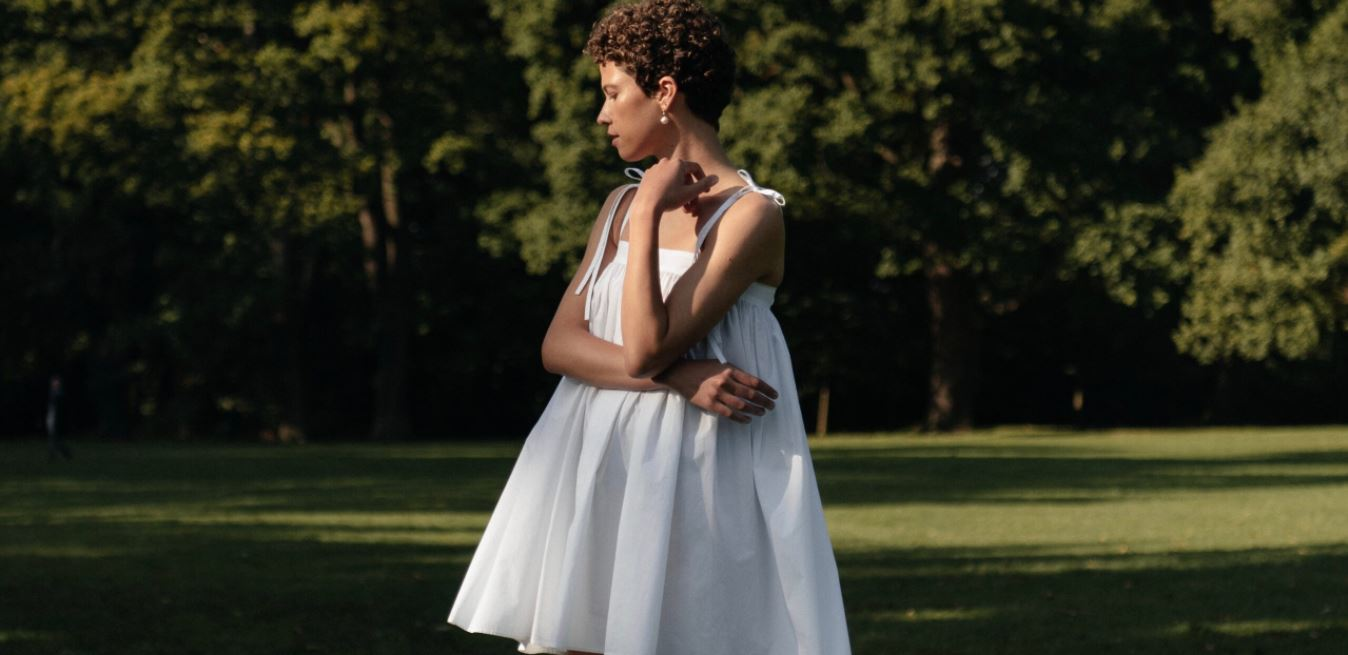
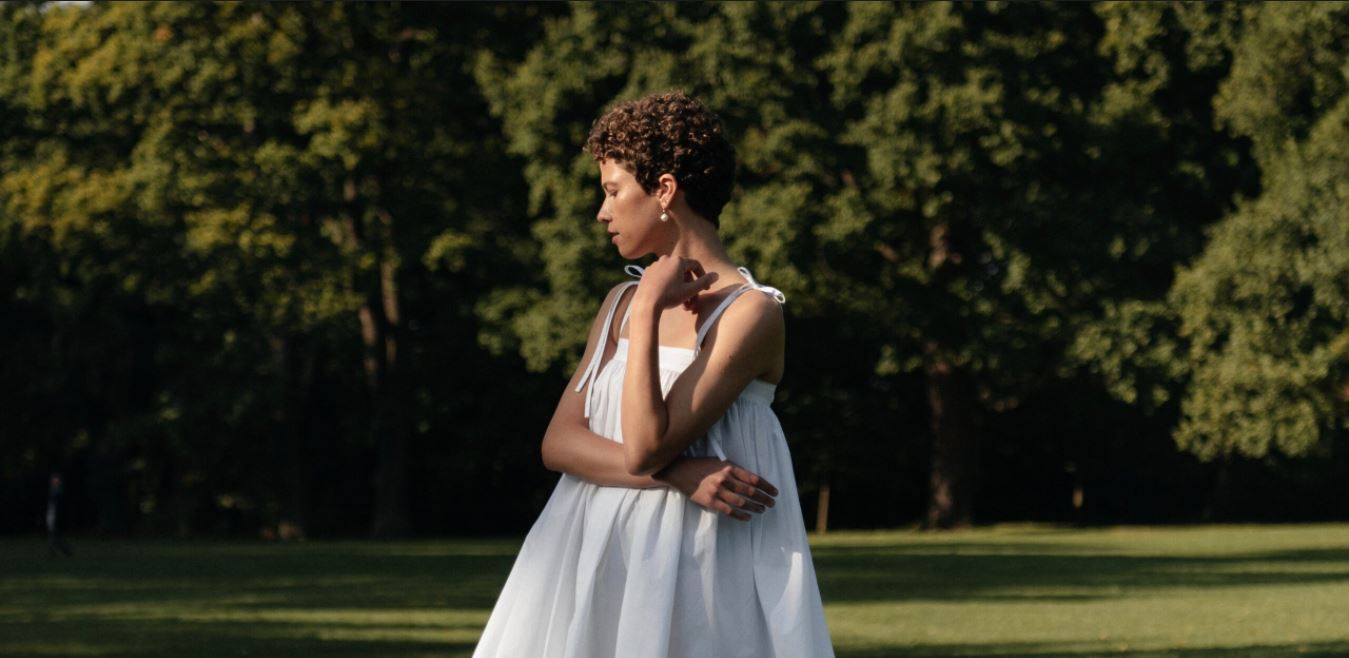
Forside rettelser

diff --git a/Home.html b/Home.html
@@ -74,6 +74,15 @@
     </div>
 
     <!----------------------------------------------------------------------------------------------------------------->
+    <!-- TEKST -->
+    <!----------------------------------------------------------------------------------------------------------------->
+
+    <div class="intro_tekst">
+        <h1>Lorem ipsum</h1>
+        <p>Lorem ipsum dolor sit amet, consectetur adipisicing elit. Distinctio optio laborum soluta doloribus voluptas, vel reiciendis cumque in consequatur deleniti sint quasi amet quam perferendis consectetur pariatur ipsa, voluptates. Omnis!</p>
+    </div>
+
+    <!----------------------------------------------------------------------------------------------------------------->
     <!-- 3 BOKSE -->
     <!----------------------------------------------------------------------------------------------------------------->
 
@@ -111,27 +120,21 @@
     <footer>
         <div class="row">
             <div class="column hide-mobile">
-                <h3>Vi tilbyder også</h3>
+                <h3>WRITE US</h3>
                 <ul class="quicklinks">
-                    <li><a href="tilbud.html?id=170">Teambuilding</a></li>
-                    <li><a href="tilbud.html?id=171">Lokaleudlejning</a></li>
-                    <li><a href="tilbud.html?id=172">Gymnasier</a></li>
+                    <li class="li3">info@ihs.dk</li>
                 </ul>
             </div>
             <div class="column">
-                <h3>Om IHS</h3>
+                <h3>FIND US</h3>
                 <ul class="quicklinks">
-                    <li><a href="om.html?id=176">Værdigrundlag</a></li>
-                    <li><a href="personale.html">Personale</a></li>
-                    <li><a href="bestyrelse.html">Bestyrelse</a></li>
+                    <li class="li2">Friheds Alle 42, 6400</li>
                 </ul>
             </div>
             <div class="column">
-                <h3>Kontakt os</h3>
+                <h3>CONTACT US</h3>
                 <ul>
                     <li class="li1">+45 74 42 18 48</li>
-                    <li class="li2">Friheds Alle 42, 6400</li>
-                    <li class="li3">info@ihs.dk</li>
                 </ul>
             </div>
         </div>
@@ -141,12 +144,14 @@
     <!-- BOTTOM BAR -->
     <!----------------------------------------------------------------------------------------------------------------->
 
+<!--
     <div class="bottom_bar">
         <div class="row">
             <div class="column">CVR: 35902619</div>
             <div class="column align-right">2020 © Copyright</div>
         </div>
     </div>
+-->
 
     <!----------------------------------------------------------------------------------------------------------------->
     <!-- JAVASCRIPT -->

diff --git a/Stye.css b/Stye.css
@@ -18,8 +18,8 @@ header {
     width: 100%;
     padding: 15px 0;
     z-index: 100;
-    background-color: rgba(255, 255, 255, 0.0);
-    height: 90px;
+    background-color: rgba(000, 000, 000, 0.80);
+    height: 70px;
     padding: 10px 50px;
     padding-left: 10px;
     box-shadow: 0px 10px 90px -23px rgba(0, 0, 0, 0.0);
@@ -30,7 +30,7 @@ header {
 /*============================================================================================*/
 
 .splash_1 {
-    background-image: url(../img/Udklip.JPG);
+    background-image: url(../img/Udklip1.JPG);
     background-size: cover;
     background-position: center;
     width: 100%;
@@ -207,9 +207,10 @@ header {
 }
 
 .logo_normal {
-    margin-top: 6px;
+    margin-top: 3px;
     height: 40px;
     width: 200px;
+    margin-left: 10px;
 }
 
 .burger-logo {
@@ -234,9 +235,9 @@ header {
 .main-menu {
     position: relative;
     z-index: 999;
-    top: 15px;
+    top: -10px;
     float: right;
-    margin-right: 10px;
+    margin-right: 40px;
 }
 
 .main-menu > ul > li > a {
@@ -336,6 +337,16 @@ header {
 }
 
 /*============================================================================================*/
+/* TEKST */
+/*============================================================================================*/
+
+.intro_tekst {
+    text-align: center;
+    margin: 10px 300px 10px 300px;
+}
+
+
+/*============================================================================================*/
 /* 3 BOKSE */
 /*============================================================================================*/
 
@@ -410,9 +421,9 @@ header {
 /*============================================================================================*/
 
 footer {
-    padding: 50px 0;
-    background-color: #f2f2f2;
-    color: #000;
+    padding: 0 0;
+    background-color: #000;
+    color: #fff;
 }
 
 footer p {
@@ -432,11 +443,12 @@ footer h3 {
     font-family: 'Josefin Sans', sans-serif;
     text-transform: uppercase;
     margin-bottom: 10px;
-    color: #0a0a0a;
+    color: #fff;
 }
 
 .bottom_bar {
-    background-color: #f2f2f2;
+    background-color: #000;
+    color: #fff;
 }
 
 .bottom_bar .row {
